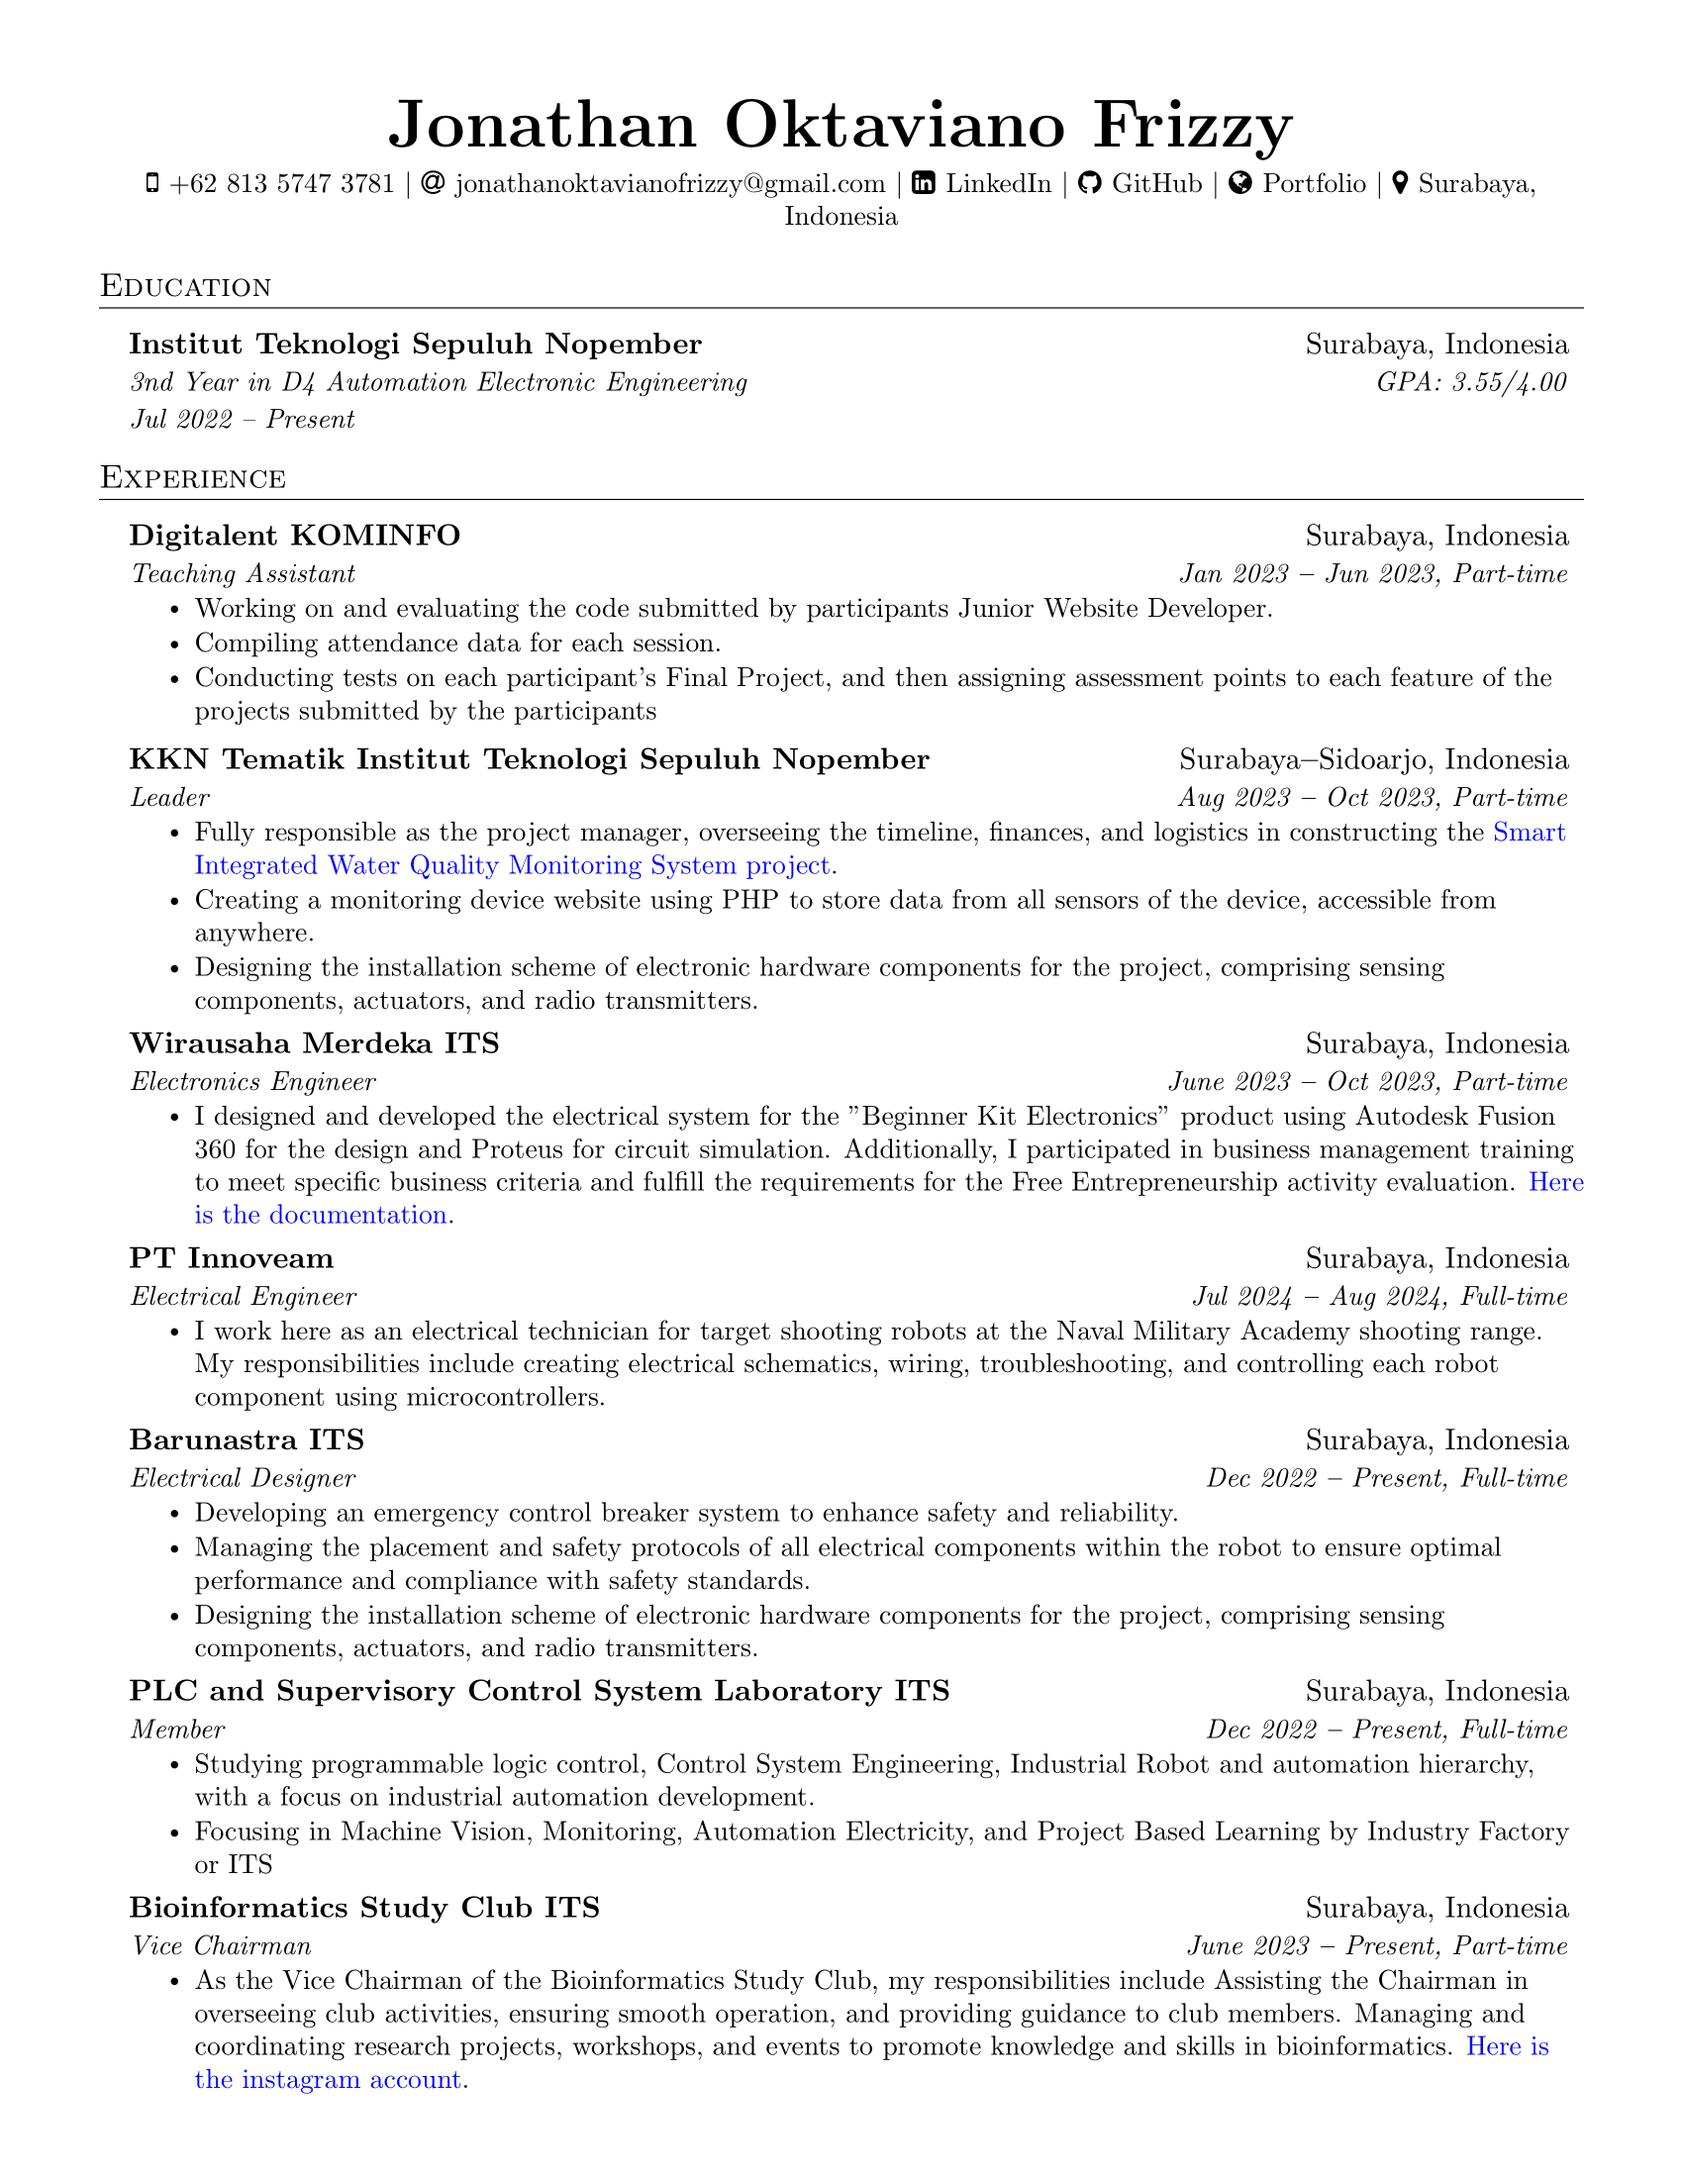
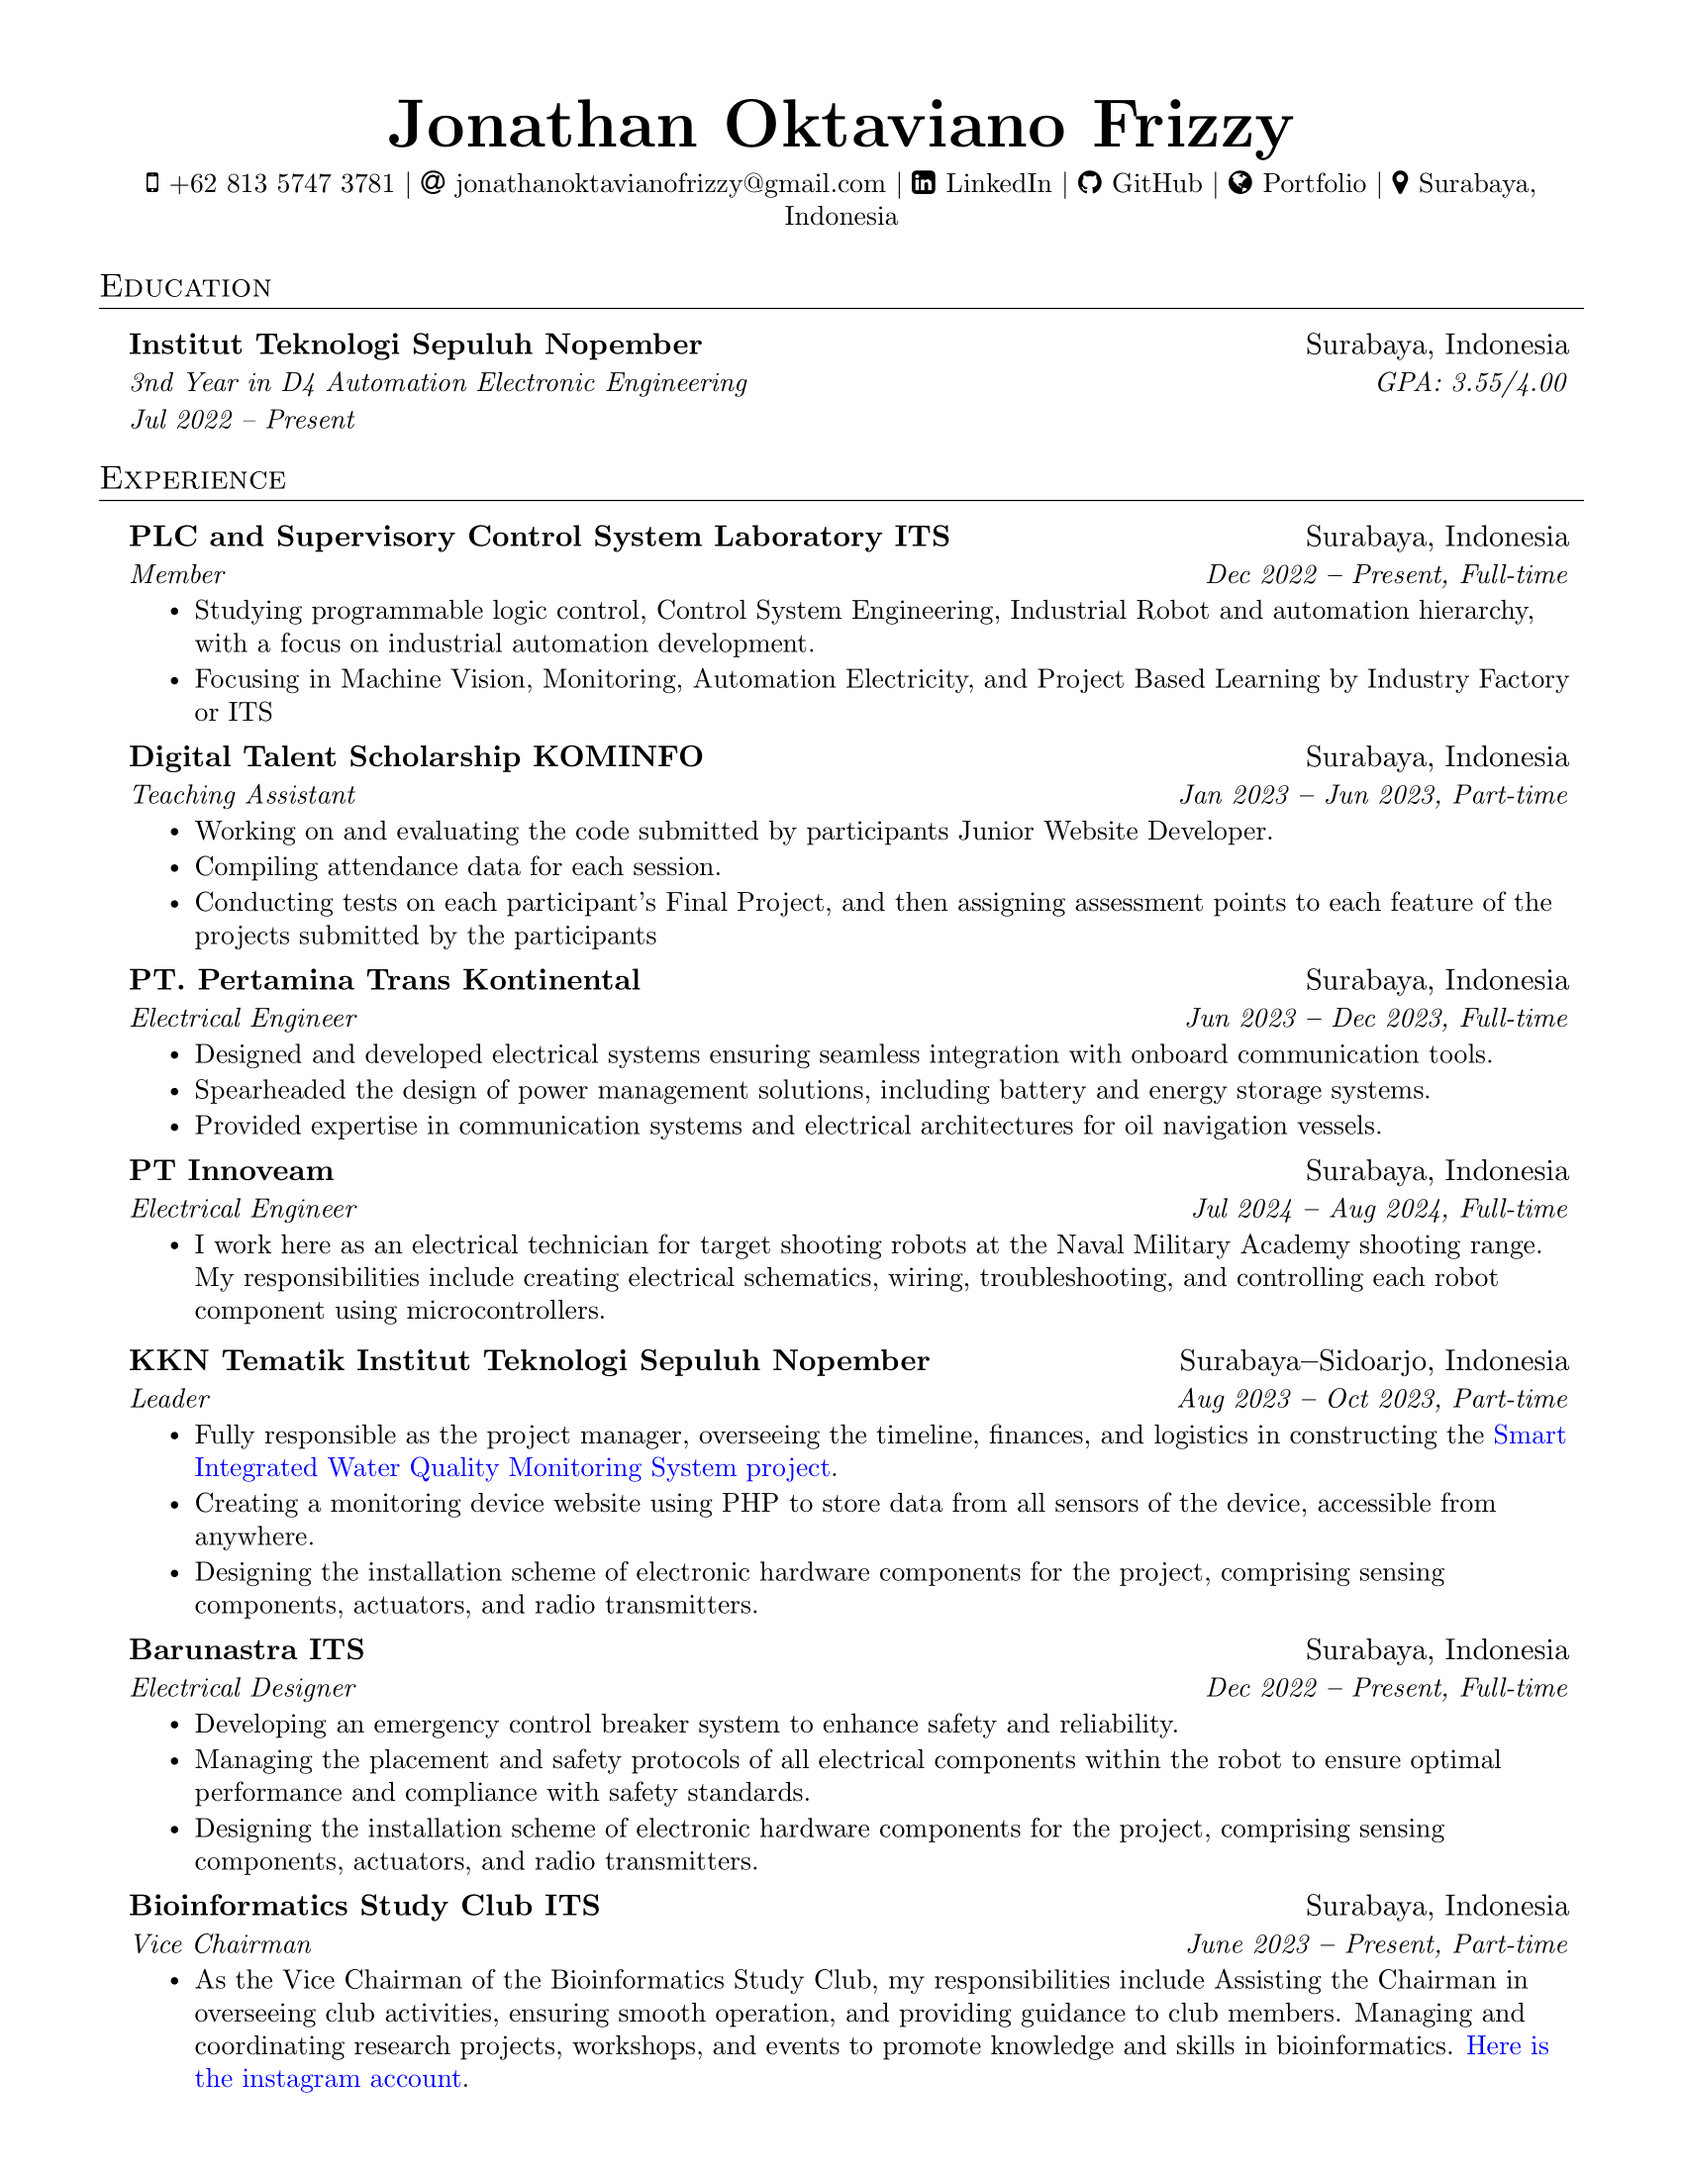
update: 経験

diff --git a/main.tex b/main.tex
@@ -179,8 +179,17 @@
 \section{Experience}
   \vspace{3pt}
   \resumeSubHeadingListStart
+
     \resumeSubheading
-      {Digitalent KOMINFO}{Surabaya, Indonesia}
+      {PLC and Supervisory Control System Laboratory ITS}{Surabaya, Indonesia}
+      {Member}{Dec 2022 \textbf{--} Present, Full-time}
+        \resumeItemListStart
+            \resumeItem{Studying programmable logic control, Control System Engineering, Industrial Robot and automation hierarchy, with a focus on industrial automation development.}
+            \resumeItem{Focusing in Machine Vision, Monitoring, Automation Electricity, and Project Based Learning by Industry Factory or ITS}
+        \resumeItemListEnd
+
+    \resumeSubheading
+      {Digital Talent Scholarship KOMINFO}{Surabaya, Indonesia}
       {Teaching Assistant}{Jan 2023 \textbf{--} Jun 2023, Part-time}
         \resumeItemListStart
             \resumeItem{Working on and evaluating the code submitted by participants Junior Website Developer.}
@@ -188,6 +197,22 @@
             \resumeItem{Conducting tests on each participant's Final Project, and then assigning assessment points to each feature of the projects submitted by the participants}
         \resumeItemListEnd
 
+
+    \resumeSubheading
+      {PT. Pertamina Trans Kontinental}{Surabaya, Indonesia}
+      {Electrical Engineer}{Jun 2023 \textbf{--} Dec 2023, Full-time}
+        \resumeItemListStart
+            \resumeItem{Designed and developed electrical systems ensuring seamless integration with onboard communication tools.}
+            \resumeItem{Spearheaded the design of power management solutions, including battery and energy storage systems.}
+            \resumeItem{Provided expertise in communication systems and electrical architectures for oil navigation vessels.}
+    \resumeItemListEnd
+
+    \resumeSubheading
+      {PT Innoveam}{Surabaya, Indonesia}
+      {Electrical Engineer}{Jul 2024 \textbf{--} Aug 2024, Full-time}
+        \resumeItemListStart
+            \resumeItem{I work here as an electrical technician for target shooting robots at the Naval Military Academy shooting range. My responsibilities include creating electrical schematics, wiring, troubleshooting, and controlling each robot component using microcontrollers.}
+    \resumeItemListEnd
     \vspace{2pt}
     \resumeSubheading
       {KKN Tematik Institut Teknologi Sepuluh Nopember}{Surabaya\textbf{--}Sidoarjo, Indonesia}
@@ -198,19 +223,12 @@
             \resumeItem{Designing the installation scheme of electronic hardware components for the project, comprising sensing components, actuators, and radio transmitters.}
         \resumeItemListEnd
 
-         \resumeSubheading
-      {Wirausaha Merdeka ITS}{Surabaya, Indonesia}
-      {Electronics Engineer}{June 2023 \textbf{--} Oct 2023, Part-time}
-        \resumeItemListStart
-            \resumeItem{I designed and developed the electrical system for the "Beginner Kit Electronics" product using Autodesk Fusion 360 for the design and Proteus for circuit simulation. Additionally, I participated in business management training to meet specific business criteria and fulfill the requirements for the Free Entrepreneurship activity evaluation.  \href{https://www.youtube.com/watch?v=fzd8DhDGEHg}{\color{blue}Here is the documentation}.}
-        \resumeItemListEnd
-
-    \resumeSubheading
-      {PT Innoveam}{Surabaya, Indonesia}
-      {Electrical Engineer}{Jul 2024 \textbf{--} Aug 2024, Full-time}
-        \resumeItemListStart
-            \resumeItem{I work here as an electrical technician for target shooting robots at the Naval Military Academy shooting range. My responsibilities include creating electrical schematics, wiring, troubleshooting, and controlling each robot component using microcontrollers.}
-    \resumeItemListEnd
+      %    \resumeSubheading
+      % {Wirausaha Merdeka ITS}{Surabaya, Indonesia}
+      % {Electronics Engineer}{June 2023 \textbf{--} Oct 2023, Part-time}
+      %   \resumeItemListStart
+      %       \resumeItem{I designed and developed the electrical system for the "Beginner Kit Electronics" product using Autodesk Fusion 360 for the design and Proteus for circuit simulation. Additionally, I participated in business management training to meet specific business criteria and fulfill the requirements for the Free Entrepreneurship activity evaluation.  \href{https://www.youtube.com/watch?v=fzd8DhDGEHg}{\color{blue}Here is the documentation}.}
+      %   \resumeItemListEnd
 
     \resumeSubheading
       {Barunastra ITS}{Surabaya, Indonesia}
@@ -219,14 +237,6 @@
             \resumeItem{Developing an emergency control breaker system to enhance safety and reliability.}
             \resumeItem{Managing the placement and safety protocols of all electrical components within the robot to ensure optimal performance and compliance with safety standards.}
             \resumeItem{Designing the installation scheme of electronic hardware components for the project, comprising sensing components, actuators, and radio transmitters.}
-        \resumeItemListEnd
-
-    \resumeSubheading
-      {PLC and Supervisory Control System Laboratory ITS}{Surabaya, Indonesia}
-      {Member}{Dec 2022 \textbf{--} Present, Full-time}
-        \resumeItemListStart
-            \resumeItem{Studying programmable logic control, Control System Engineering, Industrial Robot and automation hierarchy, with a focus on industrial automation development.}
-            \resumeItem{Focusing in Machine Vision, Monitoring, Automation Electricity, and Project Based Learning by Industry Factory or ITS}
         \resumeItemListEnd
 
         \resumeSubheading
